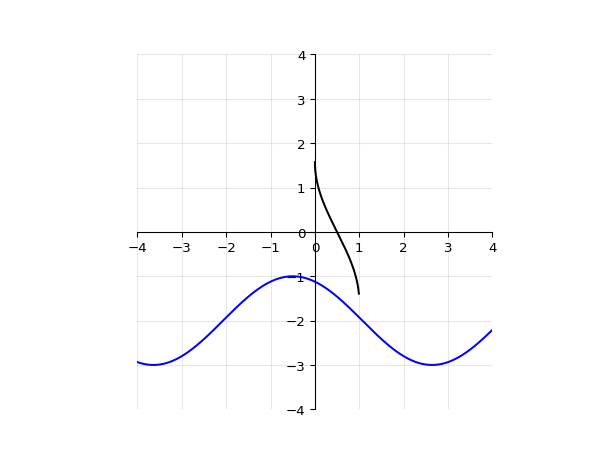
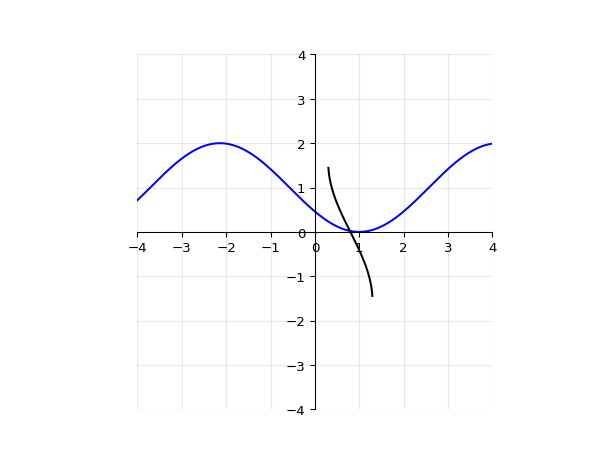
#12 adds lab04

diff --git a/04/mm_04_newton.py b/04/mm_04_newton.py
@@ -1,19 +1,50 @@
+import os
 import numpy as np
-import sympy as sp
-from read_matrix import make_wide_matrix, read_matrix, print_matrix, print_to_txt
+from data_input import jacobi, system_newton, root, eps
+from output_help import strip_ext, make_wide_matrix, print_matrix, print_to_txt
 
-INPUT_PATH = 'txt\\input.txt'
-OUTPUT_PATH = 'txt\\output_newton.txt'
-DEBUG = True
-TO_FILE = False
+OUTPUT_PATH = f'txt\\output_{strip_ext(os.path.basename(__file__))}.txt'
+TO_FILE = True
+
+
+def iterative_newton(fun, x0, jacobian, eps):
+    max_iter = 20
+
+    x_last = x0
+    for k in range(max_iter):
+        print('Итерация :', k)
+        # Решаем J(xn)*( xn+1 - xn ) = -F(xn):
+        J = np.array(jacobian(x_last))
+        F = np.array(fun(x_last))
+        matr = make_wide_matrix(J, F)
+        print_matrix(matr, digits=4)
+
+        diff = np.linalg.solve( J, -F )
+        x_last = x_last + diff
+
+        # Условие выхода из цикла:
+        if np.linalg.norm(diff) < eps:
+            break
+
+    print('количество итераций:', k)
+
+    return {'x': x_last[0], 'y': x_last[1]}
+
 
 @print_to_txt(TO_FILE, OUTPUT_PATH)
 def main():
-    x, y = sp.symbols('x,y')
-    eq1 = sp.Eq(sp.cos(x + 0.5) - y, 2)
-    eq2 = sp.Eq(sp.sin(y) + 2*x, 1)
-    result = sp.solve([eq1, eq2], (x, y))
-    print(result)
+
+    # For the example:
+    x0 = np.array([e for e in root.values()])
+    result = iterative_newton(system_newton, x0, jacobi, eps)
+    print(f"Ответ: x = {result['x']:.5f}, y = {result['y']:.5f}, eps = {eps}")
+
+
+    # # проверка через fsvole модуля Scipy
+    # from scipy.optimize import fsolve
+
+    # sol = fsolve(system_newton, x0, fprime=jacobi, full_output=0)
+    # print('solution fsolve:', sol)
 
 
 main()

diff --git a/04/output_help.py b/04/output_help.py
@@ -1,0 +1,71 @@
+import sys
+import functools
+
+
+def strip_ext(name):
+    """
+    вспомогательный
+    """
+    _i = name.rfind('.')
+    name = name[:_i]
+    return name
+
+def make_wide_matrix(a , b):
+    """
+    """
+    wide_matrix = list()
+    for i, row_a in enumerate(a):
+        line = list()
+        for e in row_a:
+            line.append(e)
+        line.append(b[i])
+        wide_matrix.append(line)
+    return wide_matrix
+
+
+def strip_ext(name):
+    """
+    вспомогательный
+    """
+    _i = name.rfind('.')
+    name = name[:_i]
+    return name
+
+
+def print_matrix(m, digits=2, space=8):
+    """
+    """
+    if len(m) < len(m[0]):
+        for row in m:
+            for e in row[:-1]:
+                print(f'{e:-{space}.{digits}f}', end='') 
+            print(f'  | {row[-1]:-{space}.{digits}f}', end='')
+            print()
+        print()
+    
+    elif len(m) == len(m[0]):
+        for row in m:
+            for e in row:
+                print(f'{e:-{space}.{digits}f}', end='') 
+            print()
+        print()  
+
+
+def print_to_txt(is_set, path):
+    def decorator_print(func):
+        @functools.wraps(func)
+        def wrapper_print(*args, **kwargs):
+            if is_set:
+                with open(path, 'w', encoding='utf-8') as fileout:
+                    stdout = sys.stdout
+                    sys.stdout = fileout
+                    value = func(*args, **kwargs)
+
+                with open(path, 'r', encoding='utf-8') as f:
+                    sys.stdout = stdout
+                    print(f.read())
+            else:
+                value = func(*args, **kwargs)
+            return value
+        return wrapper_print
+    return decorator_print

diff --git a/04/data_input.py b/04/data_input.py
@@ -1,0 +1,59 @@
+import numpy as np
+
+# -------------------------------
+# эти переменные используются в модуле build_graph.py
+# для построения гшрафика
+
+# функция f1(x) для графика
+f_1 = lambda x: 1 - np.cos(x-1)
+
+# функция f2(x) для графика
+f_2 = lambda x: np.arcsin(1.6 - 2*x)
+
+# ограничения масштаба графика
+left_x_limiter = -4
+right_x_limiter = 4
+
+"--------------в обоих модулях---------------"
+# приблизительные корни
+root = {
+    'x': 0.85,
+    'y': 0.1,
+}
+"--------------mm_04_iterations.py---------------"
+eps = 1e-4
+# система уравнений
+system_iter = {
+    'x': lambda x: 1 - np.cos(x - 1),
+    'y': lambda y: 0.8 - 0.5 * np.sin(y),
+}
+
+"--------------mm_04_newton.py---------------"
+
+# вычисление нормы
+def get_matrix_norm(matrix):
+    res = 0
+    for row in matrix:
+        for elem in row:
+            res += elem ** 2
+    return np.sqrt(res)
+
+def jacobi(roots):
+    x, y = roots
+    return [[-np.sin(x-1), 1],
+            [2, np.cos(y)]]
+
+
+def system_newton(roots):
+    x, y = roots
+    return [np.cos(x-1) + y - 1, 2*x + np.sin(y) - 1.6]
+
+# φ'(x, y), матрица Якоби
+# element_11 = lambda x, y: -0.5*np.cos(y)
+# element_12 = lambda x, y: 0
+# element_21 = lambda x, y: 0
+# element_22 = lambda x, y: np.sin(x-1)
+# phi_diff = [[element_11, element_12], 
+#             [element_21, element_22]]
+
+# -------------------------------

diff --git a/04/mm_04_iterations.py b/04/mm_04_iterations.py
@@ -1,0 +1,44 @@
+import os
+import numpy as np
+from data_input import system_iter, root, eps
+from output_help import strip_ext, print_to_txt
+
+OUTPUT_PATH = f'txt\\output_{strip_ext(os.path.basename(__file__))}.txt'
+TO_FILE = True
+
+# вычисление нормы
+def get_matrix_norm(matrix, x, y):
+    res = 0
+    for row in matrix:
+        for func in row:
+            res += func(x, y) ** 2
+    return np.sqrt(res)
+
+
+def iterate_roots(root, system, key):
+    return system[key](root)
+
+
+@print_to_txt(TO_FILE, OUTPUT_PATH)
+def main():
+
+    print("-"*32)
+    print(f"приблизительные значения корня")
+    print(f"x = {root['x']}, y = {root['y']}")
+
+    i = 1
+    while True:
+        root['previous x'] = root['x']
+        root['y'] = iterate_roots(root['x'], system_iter, 'x')
+        root['x'] = iterate_roots(root['y'], system_iter, 'y')
+        print("-"*32)
+        print(f"итерация №{i}")
+        print(f"x = {root['x']:.5f}, y = {root['y']:.5f}")
+        if abs(root['x'] - root['previous x']) < eps:
+            print("-"*32)
+            break
+        i += 1
+
+    print(f"Ответ: x = {root['x']:.5f}, y = {root['y']:.5f}, eps = {eps}")
+
+main()

diff --git a/04/build_graph.py b/04/build_graph.py
@@ -1,5 +1,5 @@
 import numpy as np
-from input import f_1, f_2, left_x_limiter, right_x_limiter
+from data_input import f_1, f_2, left_x_limiter, right_x_limiter
 
 """
 """
